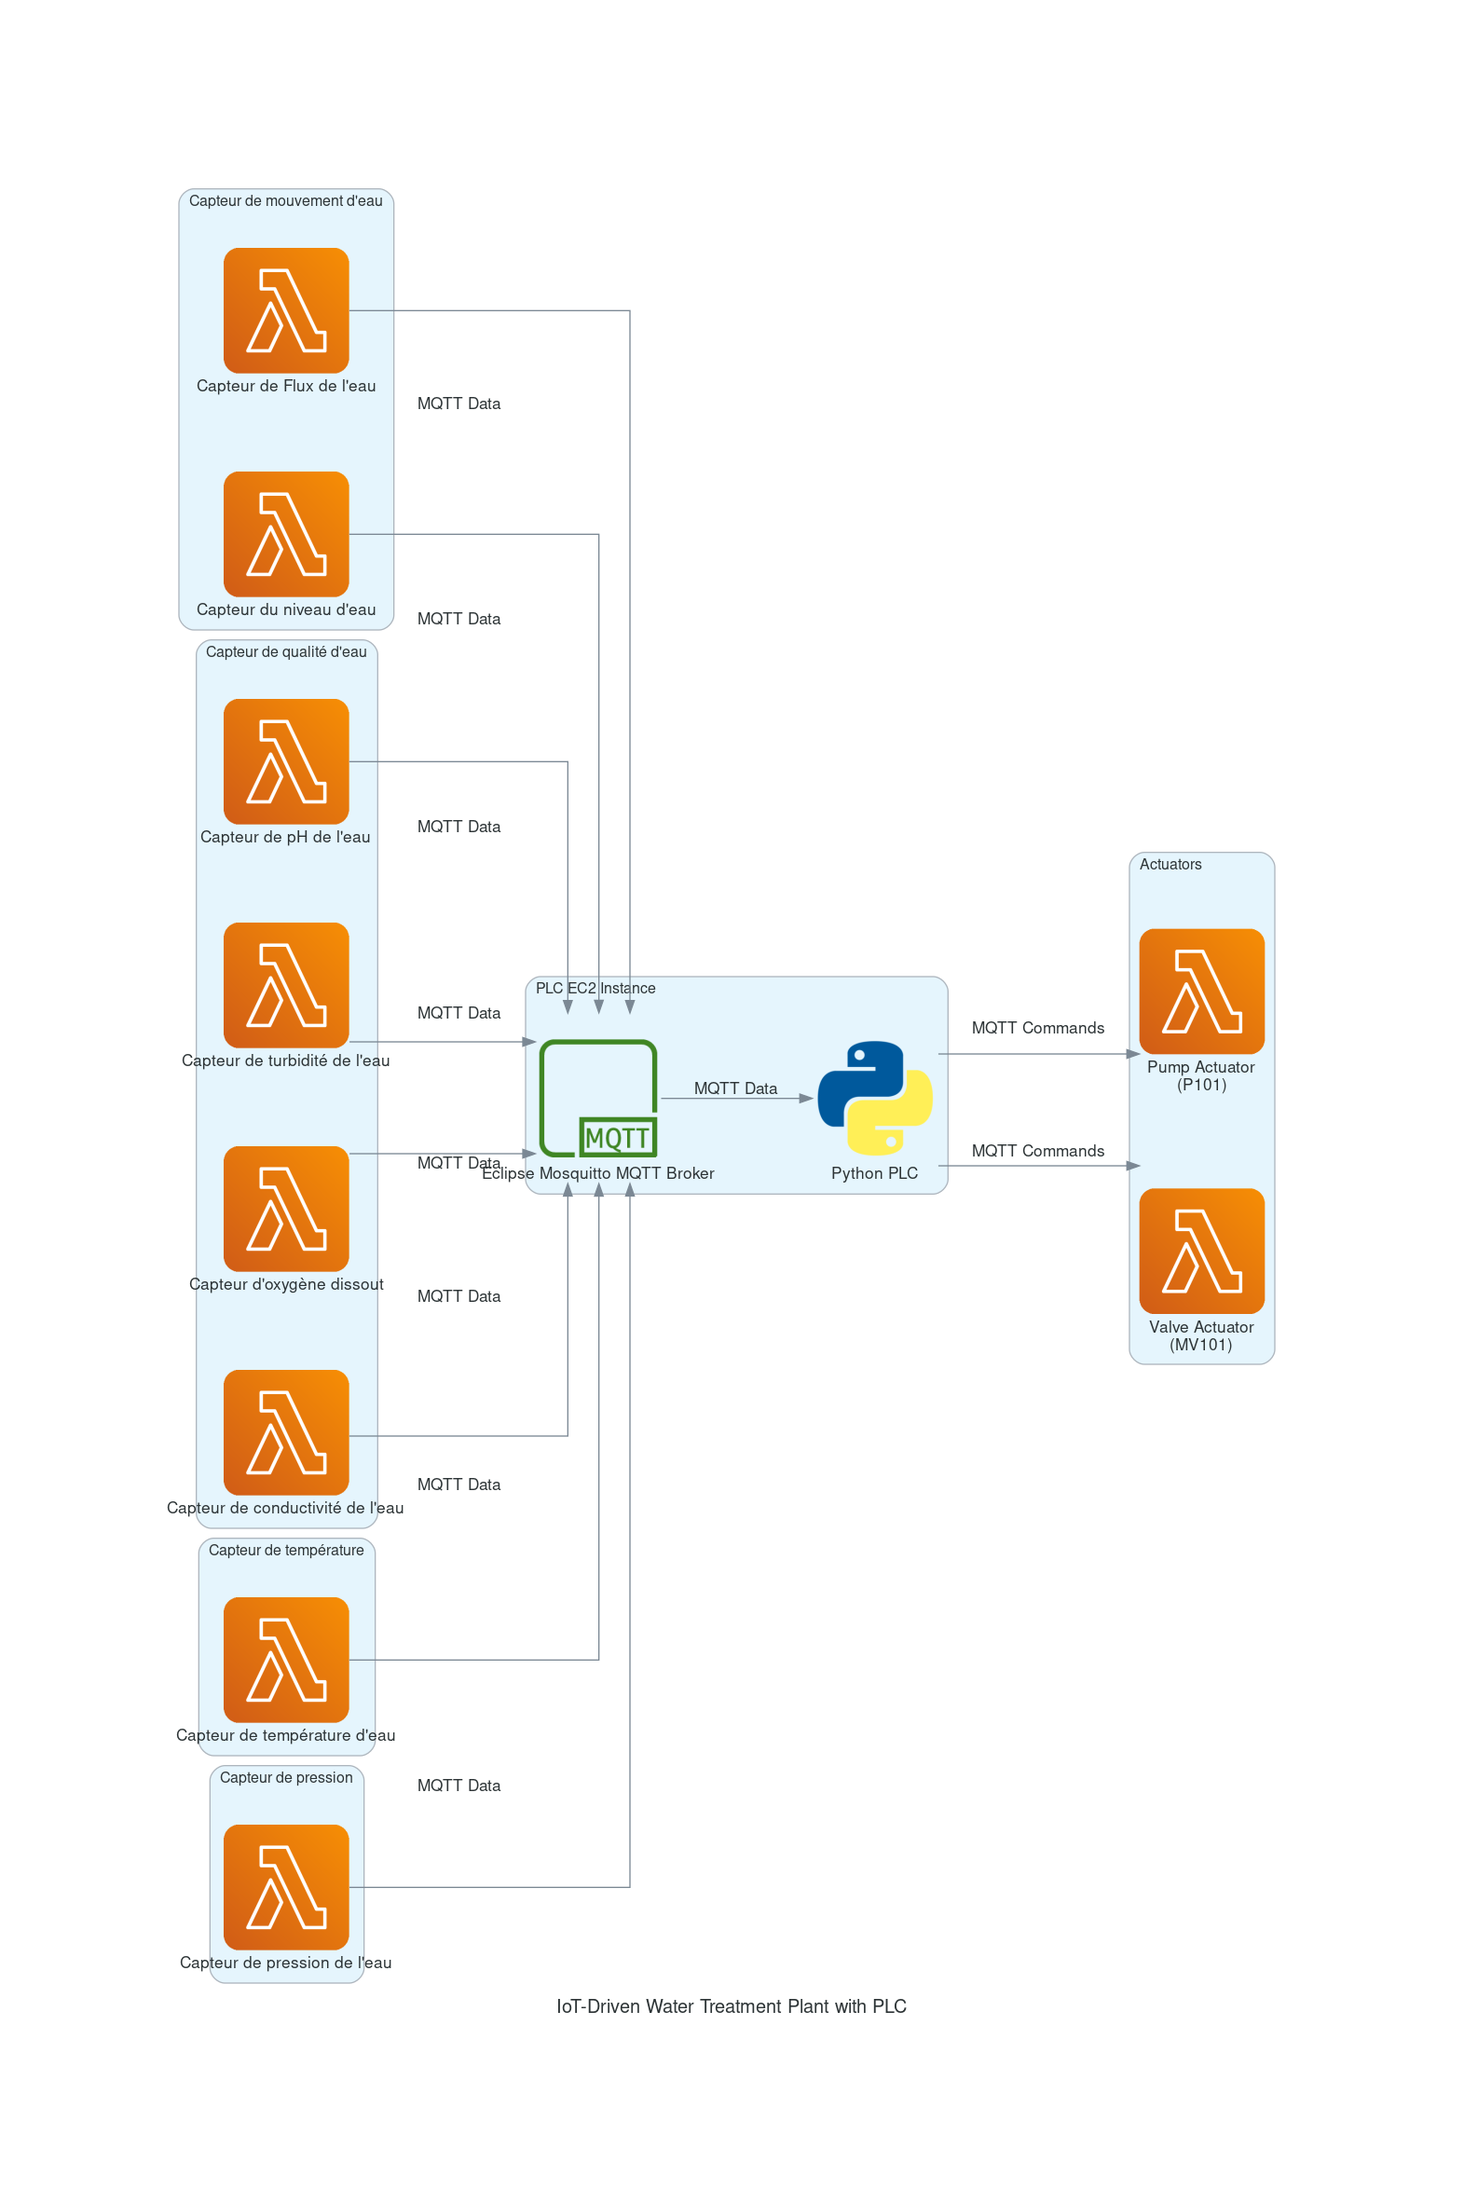
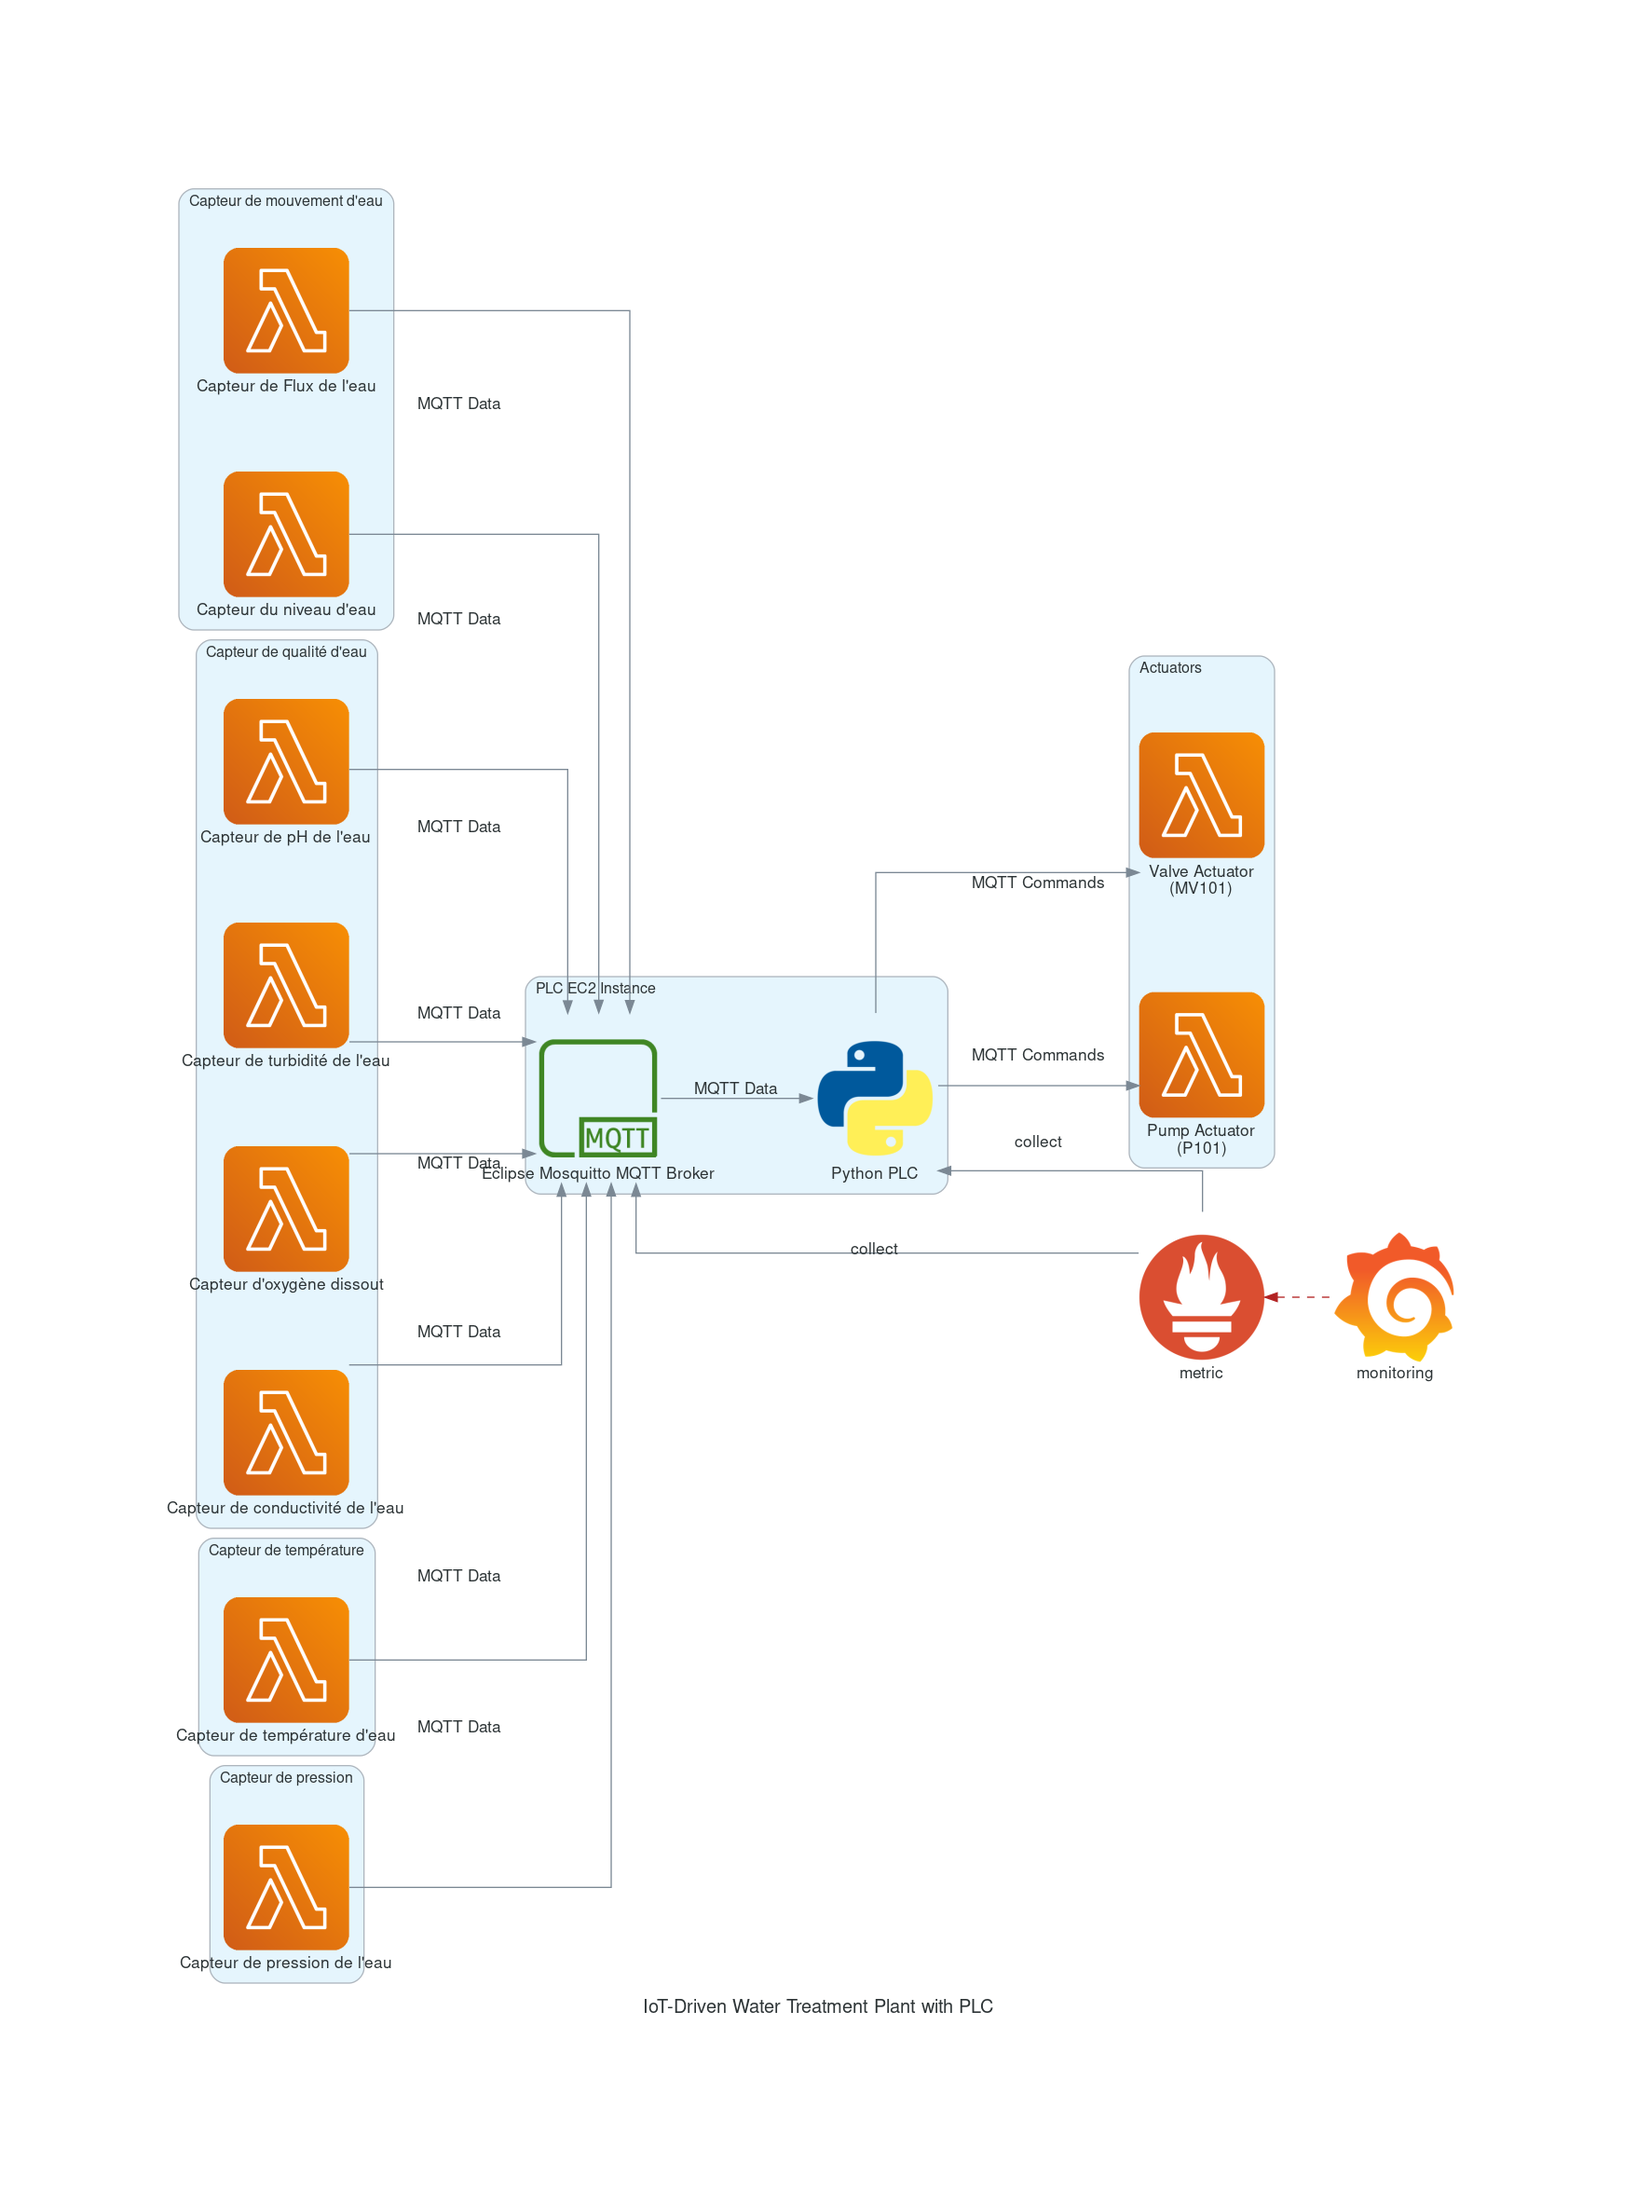
added monitoring

diff --git a/diagrams/diagram.py b/diagrams/diagram.py
@@ -3,8 +3,12 @@ from diagrams.aws.compute import EC2, Lambda
 from diagrams.aws.iot import IotMqtt
 from diagrams.aws.network import VPC
 from diagrams.programming.language import Python
+from diagrams.onprem.monitoring import Grafana, Prometheus
 
 with Diagram("IoT-Driven Water Treatment Plant with PLC", show=False, direction="LR"):
+
+    metrics = Prometheus("metric")
+    metrics << Edge(color="firebrick", style="dashed") << Grafana("monitoring")
 
     # PLC EC2 instance with MQTT broker
     with Cluster("PLC EC2 Instance"):
@@ -46,3 +50,5 @@ with Diagram("IoT-Driven Water Treatment Plant with PLC", show=False, direction=
         python_app >> Edge(label="MQTT Commands") >> actuator
 
     mqtt_broker >> Edge(label="MQTT Data") >> python_app
+    mqtt_broker << Edge(label="collect") << metrics
+    python_app << Edge(label="collect") << metrics
